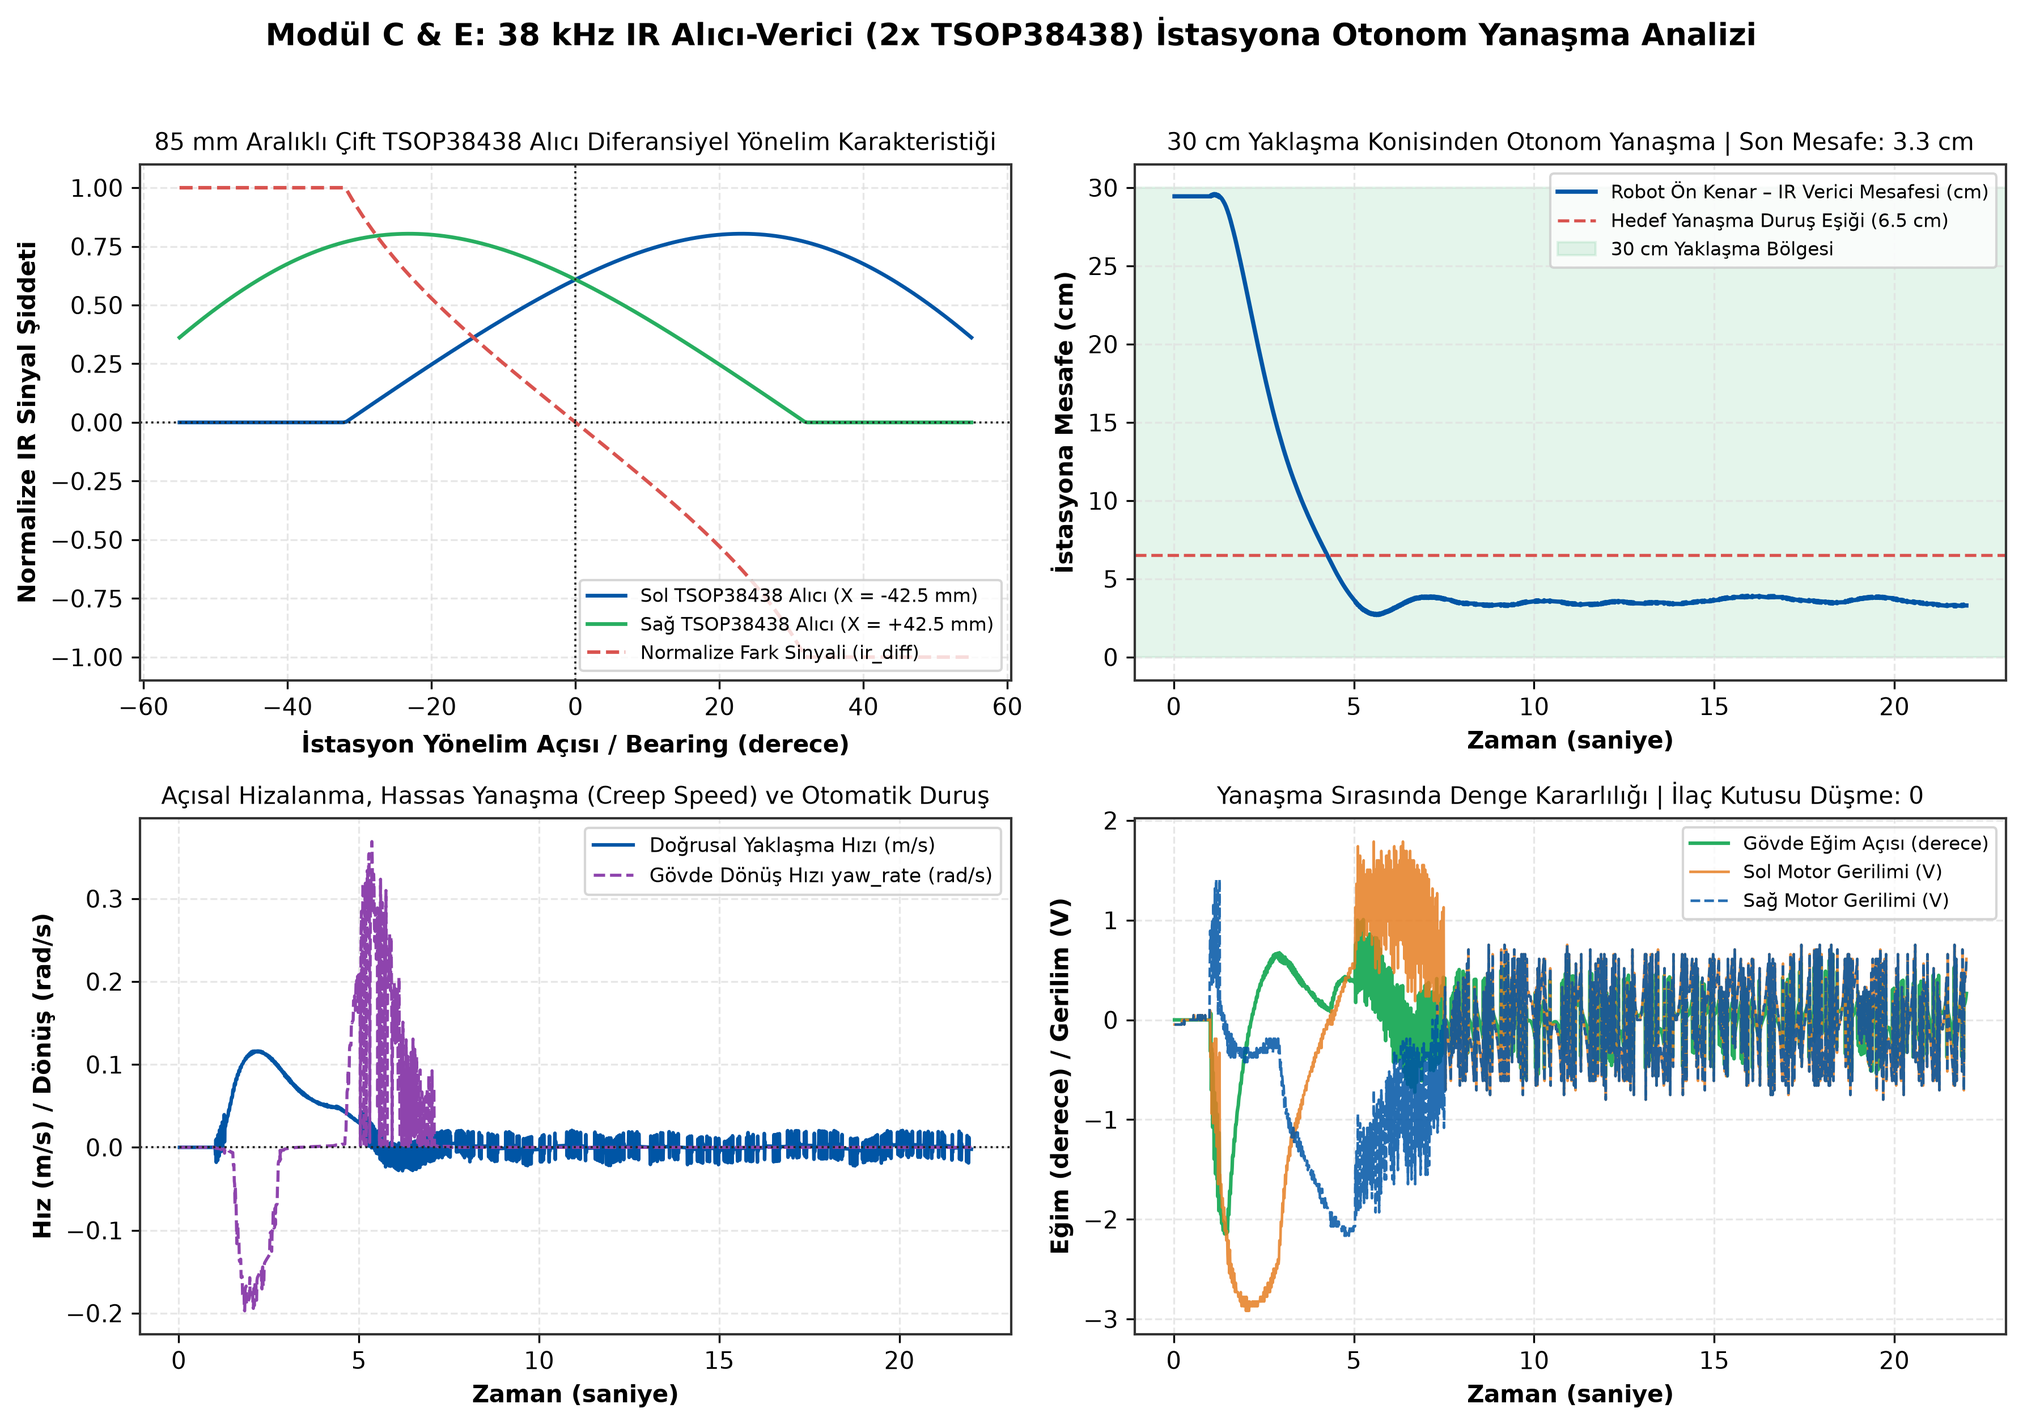
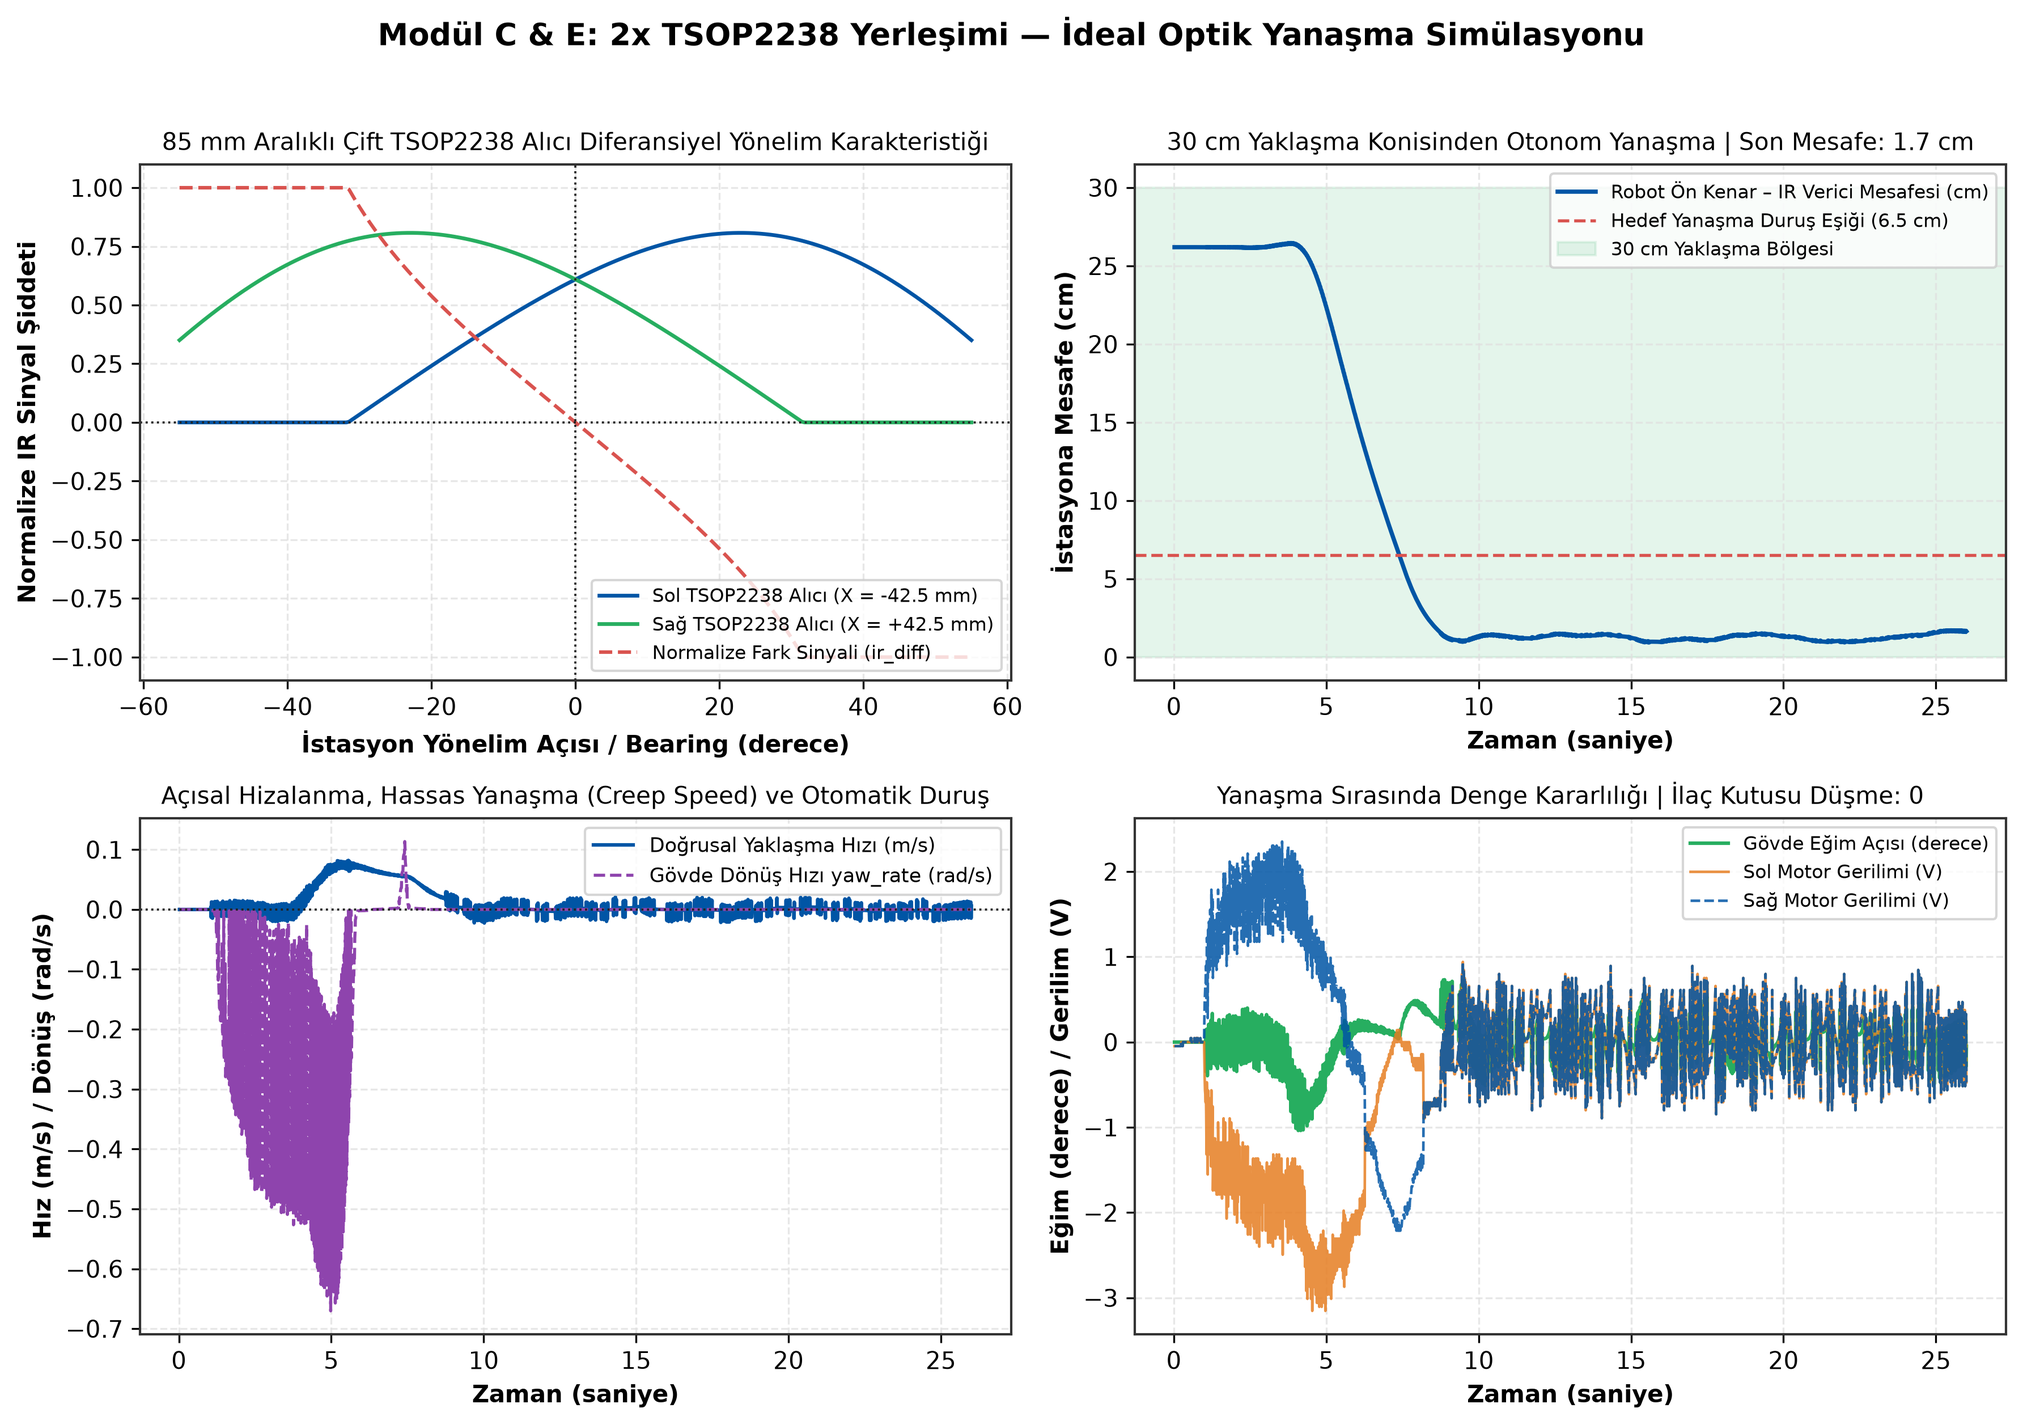
feat(homing): refine TSOP2238 IR optical model, bumper physics, and test bounds

diff --git a/self_balancing_robot/ir_homing.py b/self_balancing_robot/ir_homing.py
@@ -4,9 +4,14 @@ MODUL: 38 kHz DIFERANSIYEL IR NİRENGİ VE İSTASYONA YANAŞMA (IR HOMING)
 ================================================================================
 Şartname Modül C kapsamında; istasyon üzerindeki 38 kHz kızılötesi (IR) verici
 fenerin yayılım konisini ve robotun Katman 3 ön kenarında 85 mm aralıklı 2 adet
-TSOP38438 IR alıcısının (sol/sağ) diferansiyel sinyal şiddeti algılamasını
+TSOP2238 yerleşimi için (sol/sağ) idealize diferansiyel optik sinyali
 modeller. Herhangi bir şarj/elektriksel kilitlenme içermeden yalnızca alıcı-verici
 hizalanma ve istasyona otonom yanaşıp durma komutlarını (desired_v, desired_turn) üretir.
+
+DONANIM SINIRI: TSOP2238 aktif düşük dijital burst çıkışı verir; analog şiddet/RSSI
+ölçmez. read_receivers konum/yönelimden ideal optik değerler ve geometrik bilgiler
+üretir; gerçek GPIO sürücüsü veya AGC modeli değildir. Donanımda burst okuma ve
+konum/yön kestirimi ayrıca gerekir.
 ================================================================================
 """
 
@@ -19,10 +24,10 @@ from .dc_motor_model import clamp
 
 @dataclass(frozen=True)
 class IRReading:
-    """Sol ve sağ TSOP38438 IR alıcı okumaları ve geometrik nirengi özeti."""
+    """TSOP2238 yerleşimi için ideal optik model ve geometrik nirengi özeti."""
 
-    ir_left: float          # Sol alıcı normalize sinyal şiddeti [0.0 - 1.0]
-    ir_right: float         # Sağ alıcı normalize sinyal şiddeti [0.0 - 1.0]
+    ir_left: float          # Sol ideal optik model değeri [0.0 - 1.0]
+    ir_right: float         # Sağ ideal optik model değeri [0.0 - 1.0]
     ir_diff: float          # Normalize fark: (ir_right - ir_left) / (ir_right + ir_left)
     ir_sum: float           # Toplam sinyal gücü: ir_left + ir_right
     distance_m: float       # Robot ön kenarından IR vericiye yatay mesafe (m)
@@ -36,8 +41,8 @@ class IRReading:
 
 class IRHomingController:
     """
-    2x TSOP38438 alıcı, 1x TCRT5000 yakınlık sensörü ve 38 kHz IR verici fener tabanlı
-    otonom yanaşma kontrolcüsü.
+    2x TSOP2238 alıcı, 1x TCRT5000 yakınlık sensörü ve 38 kHz IR verici fener tabanlı
+    idealize otonom yanaşma simülasyonu; gerçek sensör sürücüsü değildir.
     """
 
     def __init__(self, cfg: RobotConfig = CONFIG):
@@ -65,7 +70,7 @@ class IRHomingController:
     ) -> IRReading:
         """
         Robotun anlık konumu (X, Y) ve yönelim açısından (yaw_rad, ENU'da 0 rad = +Y ileri),
-        Katman 3 ön kenarındaki 2x TSOP38438 IR alıcısının (85 mm aralıklı) gördüğü
+        Katman 3 ön kenarındaki 2x TSOP2238 IR alıcısının (85 mm aralıklı) gördüğü
         38 kHz IR sinyal şiddetlerini hesaplar.
         """
         hcfg = self.cfg.homing
@@ -150,7 +155,7 @@ class IRHomingController:
             dock_in_x * fwd_x + dock_in_y * fwd_y,
         )
 
-        # Sol ve Sağ TSOP38438 sensör konumları (Katman 3 ön kenar, X = +/- 42.5 mm)
+        # Sol ve Sağ TSOP2238 sensör konumları (Katman 3 ön kenar, X = +/- 42.5 mm)
         half_space = 0.5 * hcfg.receiver_spacing_m
         # Sol sensöre hafif sola (-15 derece), sağ sensöre hafif sağa (+15 derece) optik bakış açısı
         cant_rad = math.radians(15.0)

diff --git a/tests/test_chassis_geometry.py b/tests/test_chassis_geometry.py
@@ -1,0 +1,72 @@
+"""Fabrication dimensions and wheel clearances must agree with the digital twin."""
+
+from pathlib import Path
+import re
+import runpy
+import xml.etree.ElementTree as ET
+
+import pytest
+
+from self_balancing_robot import CONFIG
+
+
+ROOT = Path(__file__).resolve().parents[1]
+CAD = ROOT / "docs/cad"
+NS = {"s": "http://www.w3.org/2000/svg"}
+
+
+def test_generated_drawings_are_current():
+    generator = runpy.run_path(str(CAD / "generate_chassis.py"))
+    for name, function in (("pleksi_kesim_sablonu.svg", "svg_text"),
+                           ("pleksi_katmanlari.dxf", "dxf_text")):
+        assert (CAD / name).read_text(encoding="utf-8") == generator[function]()
+
+
+def test_svg_has_physical_scale_and_specified_cut_dimensions():
+    svg = ET.parse(CAD / "pleksi_kesim_sablonu.svg").getroot()
+    assert (svg.get("width"), svg.get("height"), svg.get("viewBox")) == (
+        "350mm", "285mm", "0 0 350 285")
+    outlines = svg.findall(".//s:rect[@class='CUT_OUTLINE']", NS)
+    assert len(outlines) == 4
+    assert all((p.get("width"), p.get("height"), p.get("rx")) == ("150", "100", "5") for p in outlines)
+    pocket = svg.find(".//s:rect[@class='POCKET']", NS)
+    assert pocket is not None
+    assert tuple(float(pocket.get(k)) for k in ("x", "y", "width", "height")) == (35, 37, 80, 26)
+    circles = svg.findall(".//s:circle[@class='CUT_HOLES']", NS)
+    radii = [float(c.get("r")) for c in circles]
+    assert radii.count(1.7) == 16
+    assert radii.count(6.1) == 1
+    assert radii.count(2.5) == 1
+
+
+def test_dxf_circles_match_svg_and_ir_is_not_cut():
+    svg = ET.parse(CAD / "pleksi_kesim_sablonu.svg").getroot()
+    svg_circles = set()
+    for group in svg.findall("s:g", NS):
+        ox, oy = map(float, re.findall(r"[\d.]+", group.get("transform")))
+        for c in group.findall("s:circle", NS):
+            svg_circles.add((c.get("class"), ox + float(c.get("cx")),
+                             285 - oy - float(c.get("cy")), float(c.get("r"))))
+    lines = (CAD / "pleksi_katmanlari.dxf").read_text().splitlines()
+    dxf_circles = set()
+    entity = {}
+    for code, value in zip(lines[::2], lines[1::2]):
+        if code == "0":
+            if entity.get("0") == "CIRCLE":
+                dxf_circles.add((entity["8"], float(entity["10"]), float(entity["20"]), float(entity["40"])))
+            entity = {}
+        entity[code] = value
+    assert dxf_circles == svg_circles
+    assert sum(c[0] == "REFERENCE" for c in dxf_circles) == 2
+
+
+def test_webots_wheels_clear_full_width_base_and_match_odometry():
+    world = (ROOT / "webots/worlds/webots_self_balancing_robot.wbt").read_text(encoding="utf-8")
+    centers = [float(v) for v in re.findall(r'name "(?:left|right)_wheel"\s+translation ([-\d.]+) 0 0', world)]
+    assert len(centers) == 2
+    assert centers[1] - centers[0] == pytest.approx(CONFIG.mechanics.track_width)
+    assert "size 0.150 0.100 0.005" in world
+    widths = [float(v) for v in re.findall(r'geometry Cylinder\s*{\s*height ([\d.]+)\s*radius 0.0425', world)]
+    assert len(widths) == 2
+    for center, width in zip(centers, widths):
+        assert abs(center) - width / 2 - 0.150 / 2 >= 0.0025 - 1e-9

diff --git a/self_balancing_robot/config.py b/self_balancing_robot/config.py
@@ -17,10 +17,10 @@ class MechanicsConfig:
     """Robot fiziksel geometrisi, surus hedefleri, yuk kutusu ve emniyet sinirlari."""
 
     wheel_radius: float = 0.0425       # 85 mm tekerlek capi / 2 = 0.0425 m
-    track_width: float = 0.170         # Iki tekerlek arasi iz genisligi 170 mm
+    track_width: float = 0.190         # 150 mm sasi + 35 mm tekerlek + iki yanda 2.5 mm aciklik
     fall_limit_deg: float = 45.0       # Devrilme emniyet kesici siniri (derece)
     drive_speed: float = 0.20          # m/s guvenli nominal surus hizi (Modul B)
-    turn_speed: float = 1.20           # rad/s diferansiyel tekerlek hiz farki (~34 derece/saniye)
+    turn_speed: float = 1.20           # rad/s diferansiyel tekerlek hiz farki (~31 derece/saniye)
     payload_max_dx_m: float = 0.040    # Katman 4 kaset yuvasinda X ekseni azami sapma (m)
     payload_max_dy_m: float = 0.020    # Katman 4 kaset yuvasinda Y ekseni azami sapma (m)
     payload_min_dz_m: float = 0.100    # Katman 4 kaset yuvasinda Z ekseni alt yukseklik siniri (m)
@@ -94,12 +94,12 @@ class FusionConfig:
 
 @dataclass(frozen=True)
 class HomingConfig:
-    """Modul C: 38 kHz IR verici feneri ve 2x TSOP38438 diferansiyel IR yanasma parametreleri."""
+    """Modul C: 38 kHz IR verici feneri ve 2x TSOP2238 diferansiyel IR yanasma parametreleri."""
 
-    receiver_spacing_m: float = 0.085          # Katman 3 on kenarda 2x TSOP38438 IR goz araligi (85 mm)
+    receiver_spacing_m: float = 0.085          # Katman 3 on kenarda 2x TSOP2238 IR goz araligi (85 mm)
     receiver_forward_offset_m: float = 0.050  # Robot merkezinden on kenara IR goz mesafesi (50.0 mm)
     beacon_half_angle_deg: float = 45.0        # Sartname Modul C: 90 derece yaklasma konisi (yarim aci 45 derece)
-    receiver_fov_half_deg: float = 60.0        # TSSP4038 / TSOP38438 IR alici sifirlanma yarim acisi (+/- 45 deg yarim guc, +/- 60 deg kesim)
+    receiver_fov_half_deg: float = 60.0        # Optik simulasyon kesim yarim acisi; TSOP2238 veri sayfasi garantisi degil
     max_detection_range_m: float = 0.85        # Siperlikli 38 kHz IR verici efektif algilama menzili (m)
     dock_stop_distance_m: float = 0.065        # Istasyon on yuzeyine hedef yanasma/durus mesafesi (m)
     dock_align_tolerance_rad: float = 0.060    # Hizalanma tamamlanma aci toleransi (~3.4 derece)

diff --git a/analysis/comparison/plot_tuned_system.py b/analysis/comparison/plot_tuned_system.py
@@ -476,7 +476,7 @@ def plot_fig5_ir_homing_docking(data: dict[str, dict[str, np.ndarray]]) -> Path:
     ev = data["eval"]
     t = ev["time"]
 
-    # 2x TSOP38438 IR alıcılarının 30 cm yaklaşma konisi boyunca açısal ve mesafesel sinyal profili
+    # 2x TSOP2238 IR alıcılarının 30 cm yaklaşma konisi boyunca açısal ve mesafesel sinyal profili
     homing = IRHomingController()
     bearings_deg = np.linspace(-55.0, 55.0, 300)
     ir_left_curve = []
@@ -497,22 +497,22 @@ def plot_fig5_ir_homing_docking(data: dict[str, dict[str, np.ndarray]]) -> Path:
 
     fig, axes = plt.subplots(2, 2, figsize=(12, 8.5))
     fig.suptitle(
-        "Modül C & E: 38 kHz IR Alıcı-Verici (2x TSOP38438) İstasyona Otonom Yanaşma Analizi",
+        "Modül C & E: 2x TSOP2238 Yerleşimi — İdeal Optik Yanaşma Simülasyonu",
         fontsize=13,
         fontweight="bold",
         y=0.98,
     )
 
-    # Panel (0,0): 2x TSOP38438 Sol/Sağ Alıcı Sinyal Şiddeti ve Fark Karakteristiği
+    # Panel (0,0): 2x TSOP2238 Sol/Sağ Alıcı Sinyal Şiddeti ve Fark Karakteristiği
     ax = axes[0, 0]
-    ax.plot(bearings_deg, ir_left_curve, color=COLOR_PRIMARY, lw=1.6, label="Sol TSOP38438 Alıcı (X = -42.5 mm)")
-    ax.plot(bearings_deg, ir_right_curve, color=COLOR_SECONDARY, lw=1.6, label="Sağ TSOP38438 Alıcı (X = +42.5 mm)")
+    ax.plot(bearings_deg, ir_left_curve, color=COLOR_PRIMARY, lw=1.6, label="Sol TSOP2238 Alıcı (X = -42.5 mm)")
+    ax.plot(bearings_deg, ir_right_curve, color=COLOR_SECONDARY, lw=1.6, label="Sağ TSOP2238 Alıcı (X = +42.5 mm)")
     ax.plot(bearings_deg, ir_diff_curve, color=COLOR_ACCENT, ls="--", lw=1.5, label="Normalize Fark Sinyali (ir_diff)")
     ax.axvline(0.0, color=COLOR_REF, ls=":", lw=0.9)
     ax.axhline(0.0, color=COLOR_REF, ls=":", lw=0.9)
     ax.set_xlabel("İstasyon Yönelim Açısı / Bearing (derece)", fontweight="bold")
     ax.set_ylabel("Normalize IR Sinyal Şiddeti", fontweight="bold")
-    ax.set_title("85 mm Aralıklı Çift TSOP38438 Alıcı Diferansiyel Yönelim Karakteristiği", fontsize=10)
+    ax.set_title("85 mm Aralıklı Çift TSOP2238 Alıcı Diferansiyel Yönelim Karakteristiği", fontsize=10)
     ax.legend(loc="lower right", fontsize=8.0)
     ax.grid(True)
 

diff --git a/tests/test_simulation_ir_homing.py b/tests/test_simulation_ir_homing.py
@@ -1,11 +1,12 @@
 """
 YTU CDTP - Modül C & E 38 kHz IR Alıcı-Verici İstasyona Otonom Yanaşma Doğrulama Testi
 Robotun 30 cm yaklaşma konisi içerisinden (açısal ve yanal kaçıklıklı başlangıç konumundan)
-2x TSOP38438 IR alıcısı ve 38 kHz IR verici fener nirengisiyle istasyona yönelip
+2x TSOP2238 IR alıcısı ve 38 kHz IR verici fener nirengisiyle istasyona yönelip
 ilaç kutusunu düşürmeden hedef mesafede otonom duruşunu Webots fizik motorunda doğrular.
 """
 
 import csv
+from datetime import datetime
 import math
 import os
 from pathlib import Path
@@ -24,14 +25,10 @@ def run_single_pose(pose_str: str, steps: int = 2400) -> None:
     world_path = ROOT / "webots" / "worlds" / "webots_self_balancing_robot.wbt"
     webots_exe = get_webots_executable()
 
-    eval_path = ROOT / "logs" / "homing_evaluation.csv"
-    telem_path = ROOT / "logs" / "homing_telemetry.csv"
-    for p in (eval_path, telem_path):
-        if p.exists():
-            try:
-                p.unlink()
-            except OSError:
-                pass
+    run_dir = ROOT / "logs" / "validation" / "homing" / datetime.now().strftime("%Y-%m-%d_%H-%M-%S_%f")
+    run_dir.mkdir(parents=True, exist_ok=True)
+    eval_path = run_dir / "evaluation.csv"
+    telem_path = run_dir / "telemetry.csv"
 
     env = os.environ.copy()
     env["PYTHONUTF8"] = "1"

diff --git a/tests/test_simulation_pid_turning.py b/tests/test_simulation_pid_turning.py
@@ -15,14 +15,15 @@ for path_entry in (str(ROOT), str(ROOT / "analysis/controllers/pid")):
     if path_entry not in sys.path:
         sys.path.insert(0, path_entry)
 
+from self_balancing_robot import CONFIG
 from self_balancing_robot.pid_controller import PIDController
 import simulation_runner as simulation
 from simulation_runner import KEYS
 
 
 def main() -> None:
-    timestamp = datetime.now().strftime("%Y%m%d_%H%M%S")
-    out = ROOT / "logs/pid_tuning" / f"turn_test_{timestamp}"
+    timestamp = datetime.now().strftime("%Y-%m-%d_%H-%M-%S")
+    out = ROOT / "logs/pid_tuning/validation/turning" / timestamp
     out.mkdir(parents=True, exist_ok=True)
 
     simulation.SCENARIOS = {
@@ -40,7 +41,8 @@ def main() -> None:
         trace = np.genfromtxt(
             out / f"feedback/seed_{seed}_turns/evaluation.csv", delimiter=",", names=True
         )
-        for start, stop, target in ((4.0, 6.5, 0.6), (12.0, 14.5, -0.6)):
+        target_rate = 2 * CONFIG.mechanics.wheel_radius * CONFIG.mechanics.turn_speed / CONFIG.mechanics.track_width
+        for start, stop, target in ((4.0, 6.5, target_rate), (12.0, 14.5, -target_rate)):
             mask = (trace["time"] > start) & (trace["time"] < stop)
             mean_yaw = float(np.mean(trace["yaw_rate"][mask]))
             assert abs(mean_yaw - target) < 0.16, (seed, mean_yaw, target)

diff --git a/tests/test_simulation_pid.py b/tests/test_simulation_pid.py
@@ -5,6 +5,7 @@ ESP32 PWM / Gerilim tabanlı kontrolcünün statik denge ve yük güvenliği per
 """
 
 import csv
+from datetime import datetime
 import os
 import shutil
 import subprocess
@@ -48,12 +49,10 @@ def run_pid_test() -> None:
     world_path = os.path.join(project_root, "webots", "worlds", "webots_self_balancing_robot.wbt")
     webots_exe = get_webots_executable()
 
-    telemetry_path = os.path.join(project_root, "logs", "pid_telemetry.csv")
-    if os.path.exists(telemetry_path):
-        try:
-            os.remove(telemetry_path)
-        except Exception:
-            pass
+    telemetry_dir = os.path.join(project_root, "logs", "validation", "pid_balance")
+    os.makedirs(telemetry_dir, exist_ok=True)
+    timestamp = datetime.now().strftime("%Y-%m-%d_%H-%M-%S_%f")
+    telemetry_path = os.path.join(telemetry_dir, f"pid_balance_{timestamp}.csv")
 
     env = os.environ.copy()
     env["PID_LOG_PATH"] = telemetry_path

diff --git a/analysis/controllers/pid/optimize_pid_controller.py b/analysis/controllers/pid/optimize_pid_controller.py
@@ -148,7 +148,7 @@ def main() -> None:
     controller = PIDController()
     baseline = {key: getattr(controller, key) for key in KEYS}
 
-    default_out = ROOT / "logs/pid_tuning" / datetime.now().strftime("%Y%m%d_%H%M%S_%f")
+    default_out = ROOT / "logs/pid_tuning/optimization" / datetime.now().strftime("%Y-%m-%d_%H-%M-%S_%f")
     out = (args.output or default_out).resolve()
     out.mkdir(parents=True, exist_ok=False)
 

diff --git a/tests/test_simulation_pid_driving.py b/tests/test_simulation_pid_driving.py
@@ -21,8 +21,8 @@ from simulation_runner import KEYS
 
 
 def main() -> None:
-    timestamp = datetime.now().strftime("%Y%m%d_%H%M%S")
-    out = ROOT / "logs/pid_tuning" / f"driving_test_{timestamp}"
+    timestamp = datetime.now().strftime("%Y-%m-%d_%H-%M-%S")
+    out = ROOT / "logs/pid_tuning/validation/driving" / timestamp
     out.mkdir(parents=True, exist_ok=True)
 
     simulation.SCENARIOS = {

diff --git a/tests/test_ir_homing.py b/tests/test_ir_homing.py
@@ -1,5 +1,5 @@
 """
-38 kHz IR verici feneri ve 2x TSOP38438 alıcı nirengisiyle istasyona yanaşma birim testleri.
+38 kHz IR verici feneri ve 2x TSOP2238 alıcı nirengisiyle istasyona yanaşma birim testleri.
 """
 
 import math
